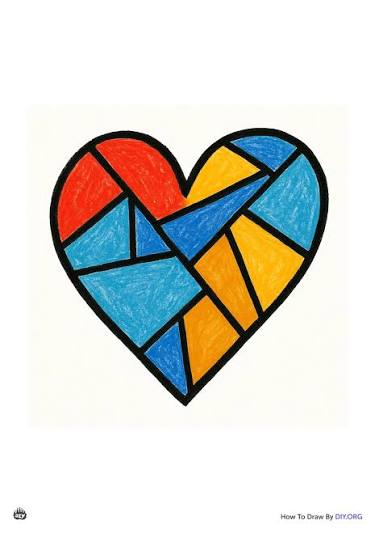
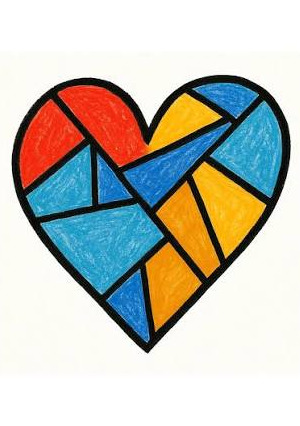
in models.py in apply_tasks generalized the default parameter self._enabled_tasks[0] instead of "Division" make the hearts for showing the progress  looking good

diff --git a/frontend/src/lib/Points.svelte b/frontend/src/lib/Points.svelte
@@ -1,13 +1,18 @@
 <script>
 	let { points, attempts } = $props();
 	let heart_string = $state("../../public/heart 2.jpg");
+	let heart_grey_string = $state("../../public/heart 2-modified.jpg");
+	
 </script>
 
 <div>Leben:
 	<span>
     	{#each { length: points/10 }, count}
 		    <img src={heart_string} width="{40+count*2}px" alt="O" />
-			{#if (count+1)%10==0} {heart_string = "../../public/heart.jpg"} <br />{/if}
+		{/each}
+		{#each {length: 10-points/10}, count}
+			<img src={heart_grey_string} width="{40+(length-count)*2}px" alt="O" />
+			{#if (count+1)%10==0} <br />{/if}
 	    {/each}
 		{#each { length: attempts }} <em>X</em>{/each}
     </span>

diff --git a/backend/src/models.py b/backend/src/models.py
@@ -144,7 +144,7 @@ class Match(Room):
 
         # if no task is chosen, take a default one
         if all(not v for _, v in task_bools.items()):
-            self._enabled_tasks["Division"] = True
+            self._enabled_tasks[self._enabled_tasks[0]] = True
     
     @property
     def is_current_task_enabled(self):
